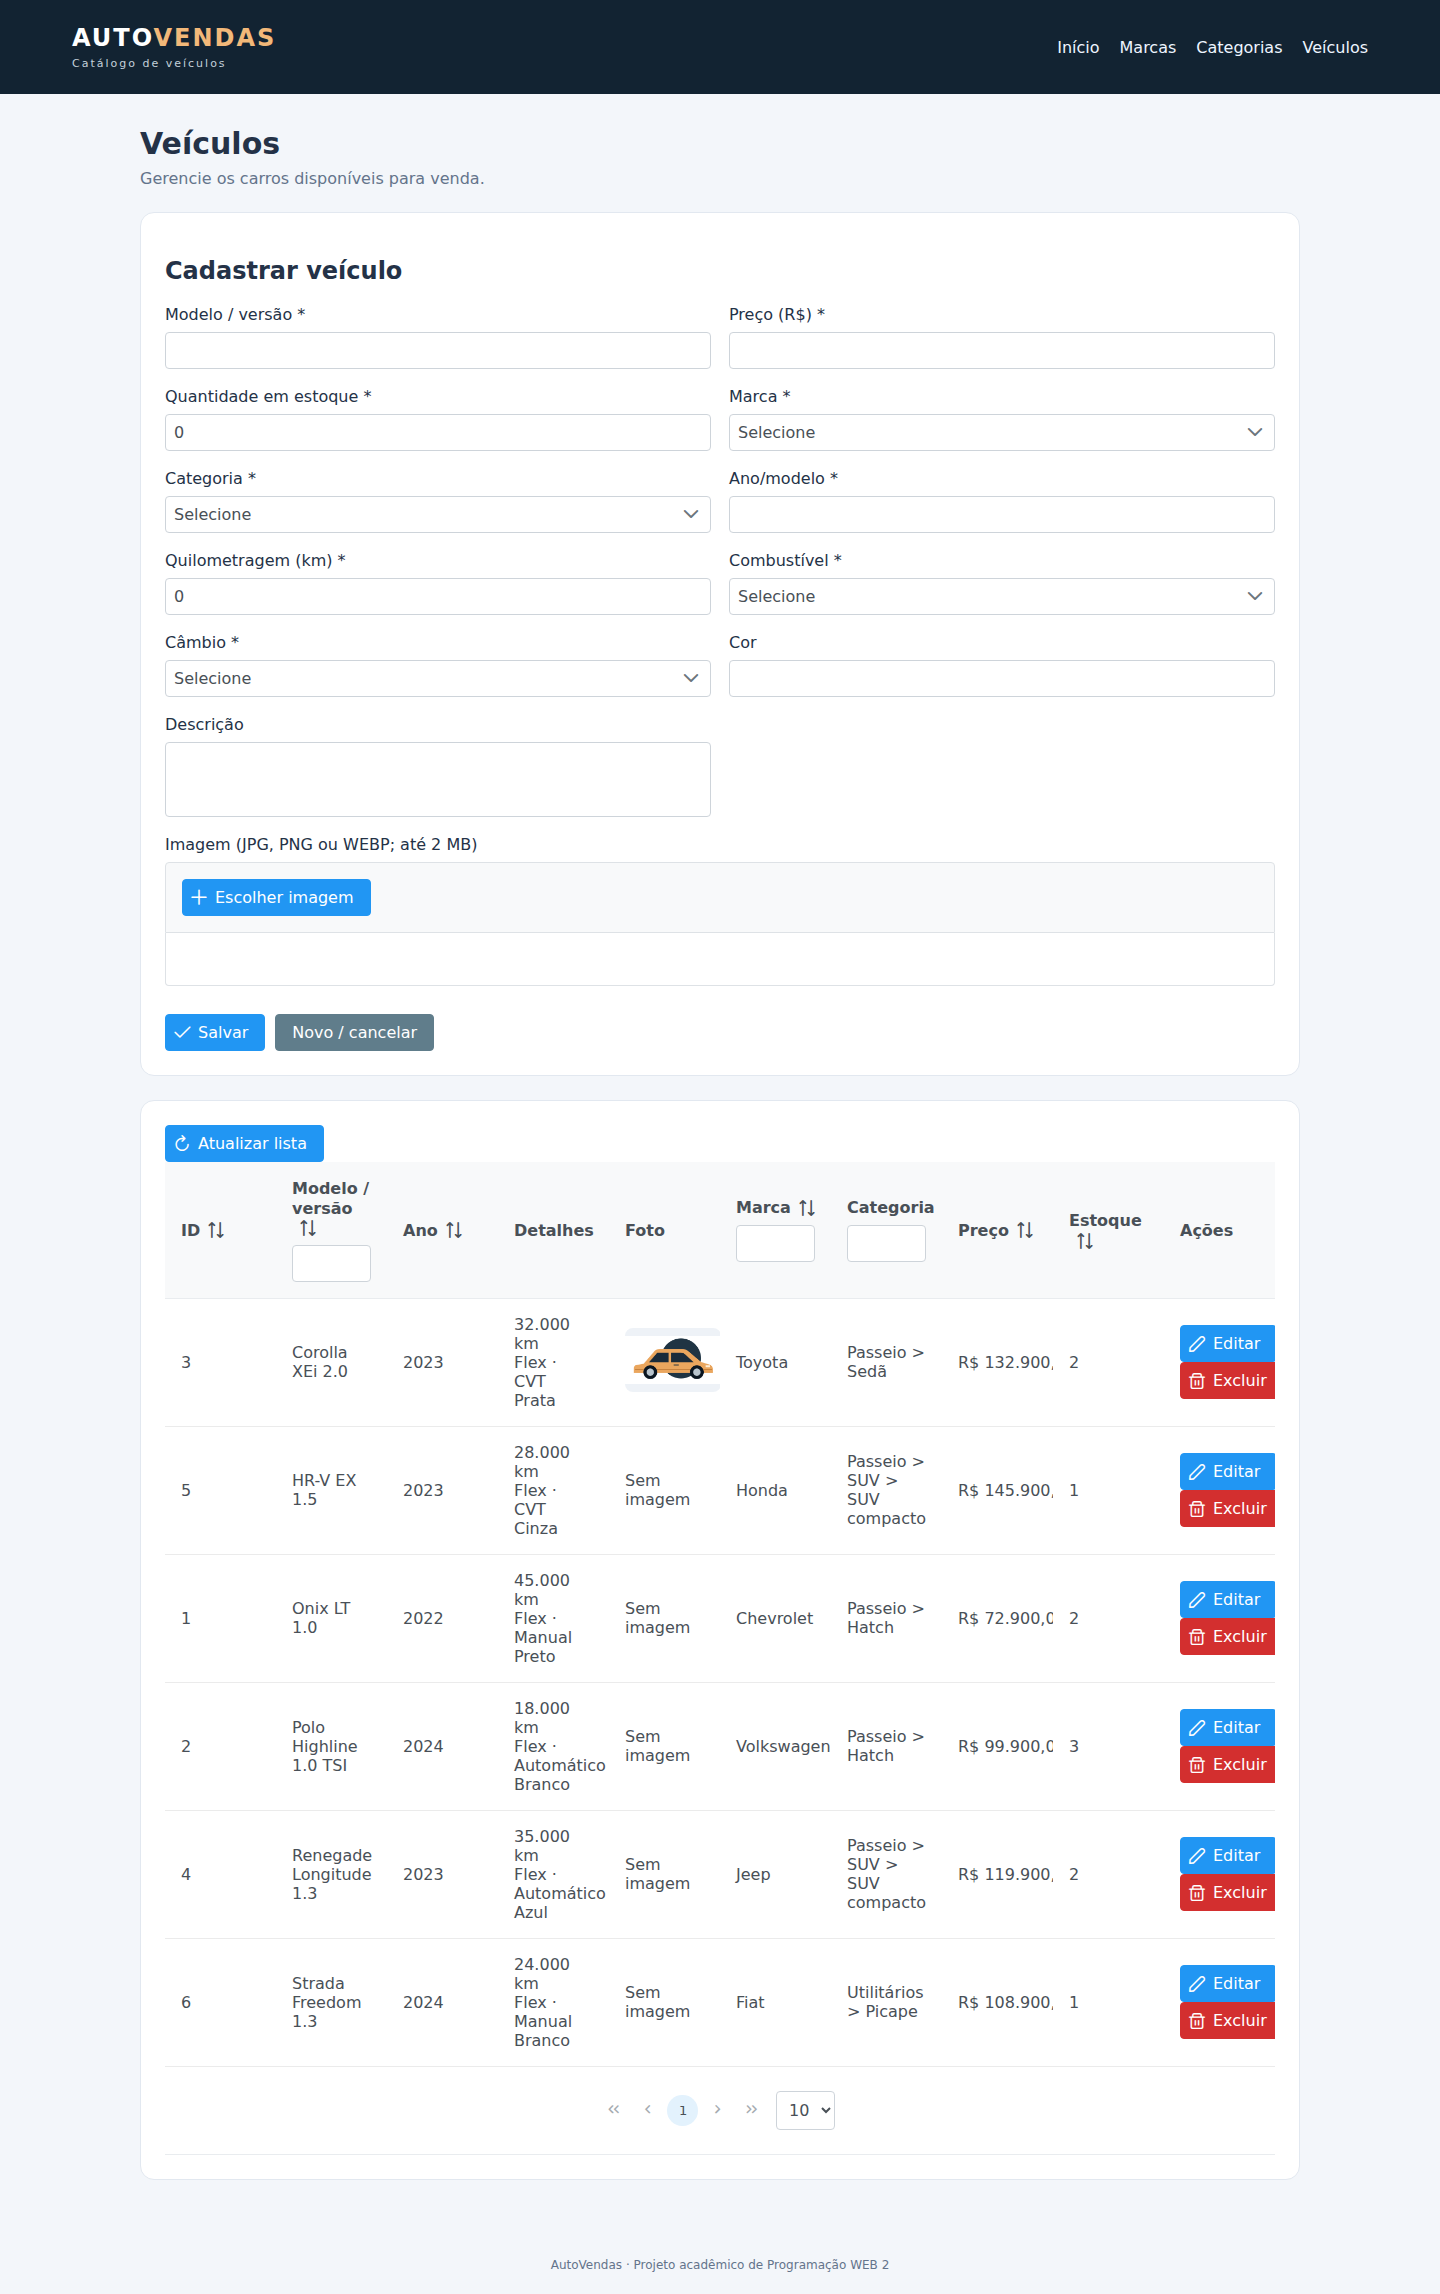
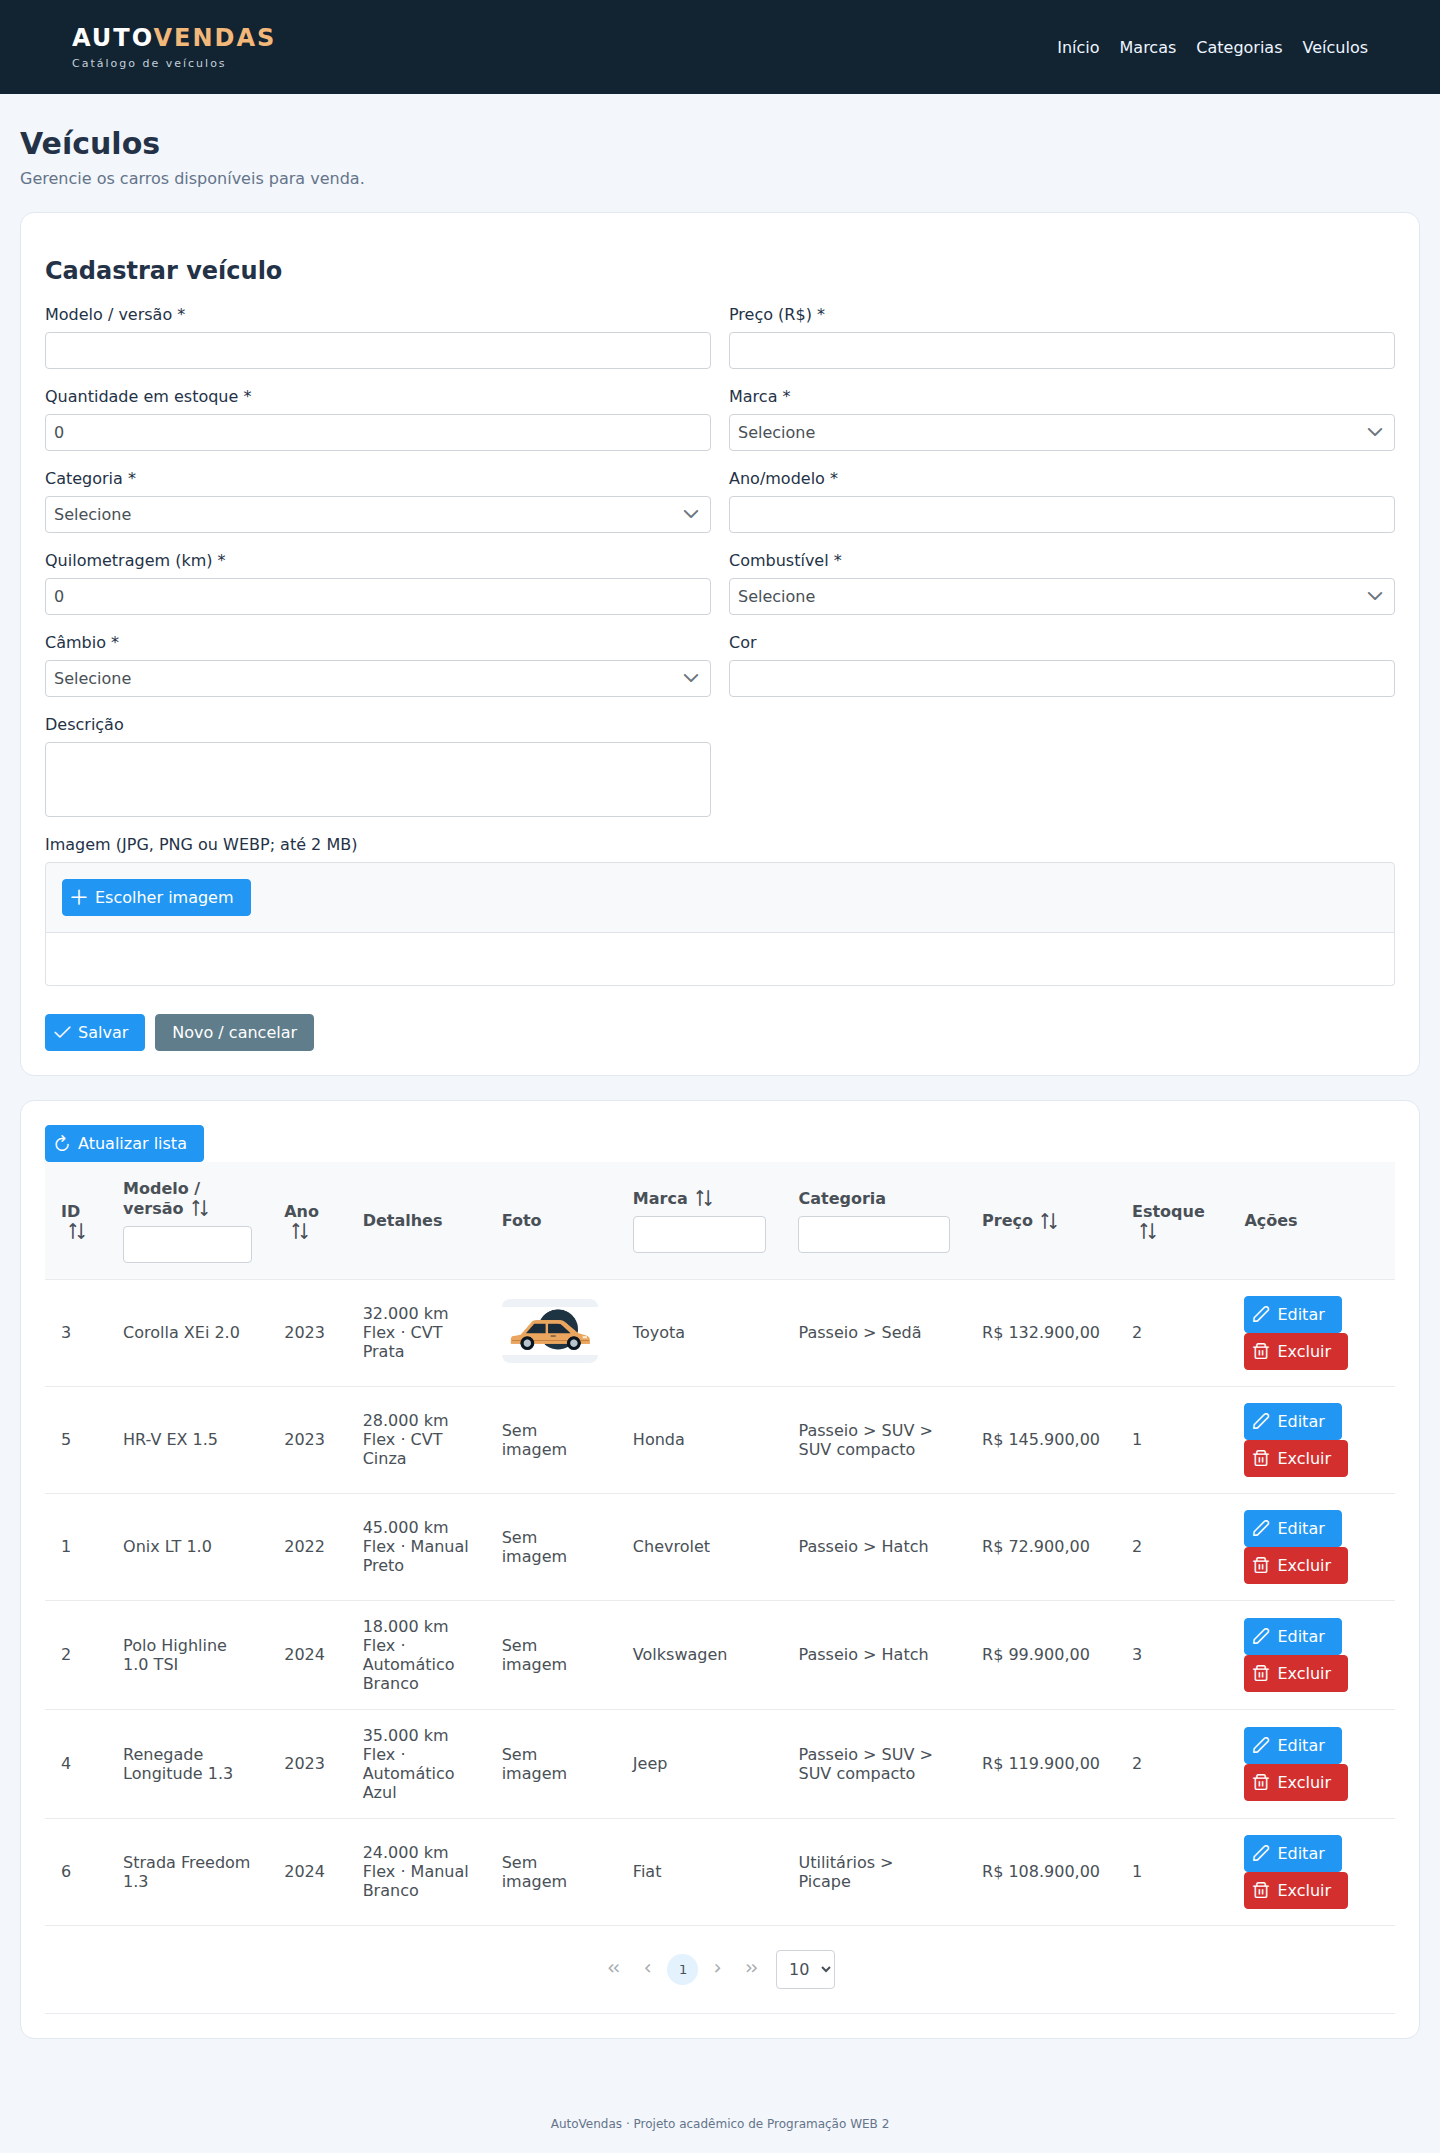
Garante largura dos precos e confere capturas finais do catalogo

diff --git a/src/main/webapp/resources/css/estilo.css b/src/main/webapp/resources/css/estilo.css
@@ -4,4 +4,6 @@
 .hero{display:grid;grid-template-columns:1.2fr 1fr;gap:30px;align-items:center;background:#122332;color:#fff;border-radius:20px;padding:44px;margin-bottom:30px;overflow:hidden}.hero h1{font-size:42px;line-height:1.15;letter-spacing:-1px;margin:18px 0}.hero p{color:#c3d0da;line-height:1.6;max-width:420px}.etiqueta,.numero{font-size:11px;font-weight:bold;letter-spacing:1.8px}.etiqueta{color:#f2b879}.hero-visual img{width:100%;height:auto}.hero-visual span{display:block;text-align:center;color:#a7bac9;font-size:12px;letter-spacing:2px}.botao-hero{display:inline-block;background:#edb271;color:#132331;padding:14px 20px;text-decoration:none;border-radius:8px;font-weight:700;margin-top:12px}.numero{color:#64748b}.cards .painel:hover{border-color:#c78b4e;transform:translateY(-3px)}.cards .painel{transition:transform .15s ease}.cards p{line-height:1.65}.atalho{color:#9b541c;font-size:13px;font-weight:bold}.painel{scroll-margin-top:18px}.miniatura{width:96px;height:64px}.preview{max-width:260px;max-height:180px}.ui-datatable-tablewrapper{overflow-x:auto}
 @media(max-width:700px){.hero{grid-template-columns:1fr;padding:26px}.hero h1{font-size:32px}.hero-visual{max-width:320px;margin:auto}.ui-datatable table{min-width:1100px}}
 
-.tabela-veiculos table{table-layout:auto;min-width:1100px}.tabela-veiculos td:nth-child(8){white-space:nowrap}.tabela-veiculos td:nth-child(2){min-width:120px}.tabela-veiculos td:nth-child(7){min-width:135px}.tabela-veiculos td:last-child{min-width:105px}
+.ui-datatable.tabela-veiculos table{table-layout:auto;min-width:1250px}.tabela-veiculos td:nth-child(8){white-space:nowrap}.tabela-veiculos td:nth-child(2){min-width:120px}.tabela-veiculos td:nth-child(7){min-width:135px}.tabela-veiculos td:last-child{min-width:105px}
+
+main:has(.tabela-veiculos){max-width:1500px}
